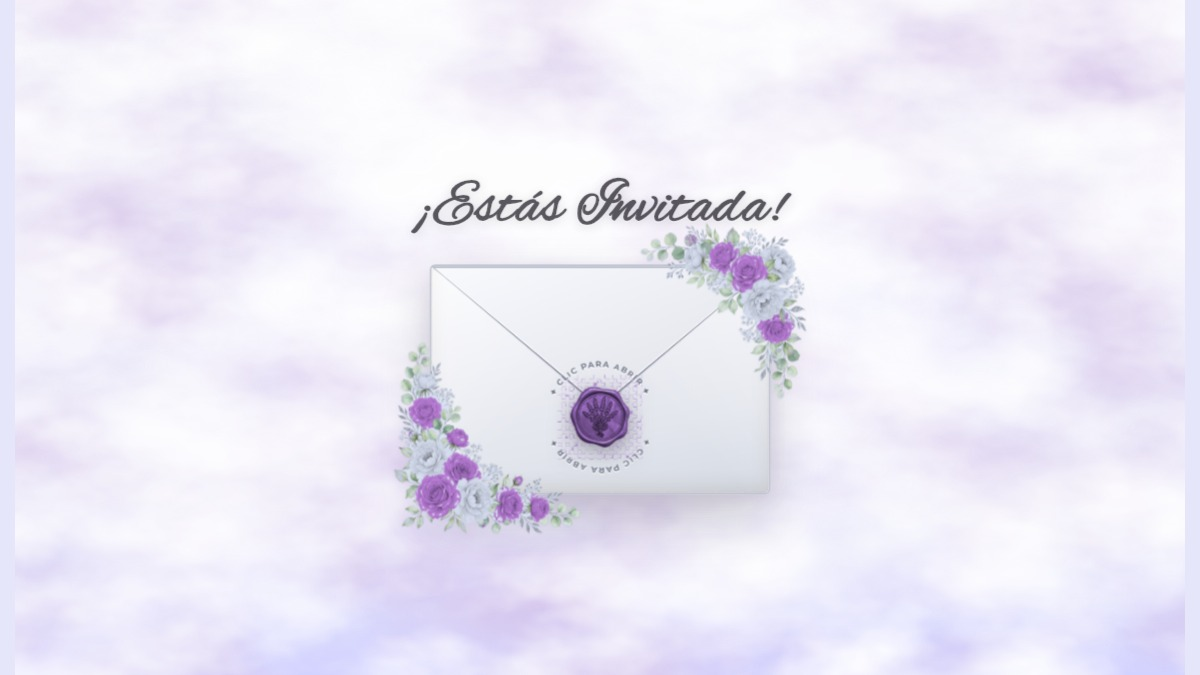
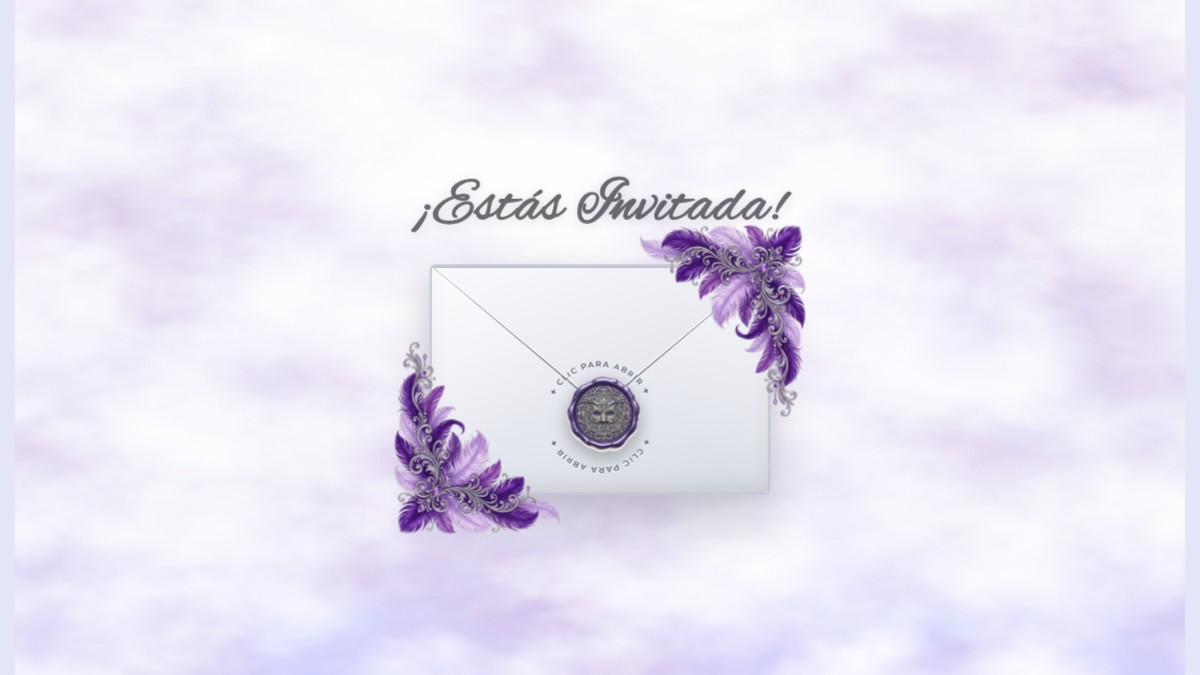
chore: update og preview image and bump cache version to v8

Changed region(s): [[0.3392, 0.2489, 0.6783, 0.6222], [0.3083, 0.4978, 0.4933, 0.8089], [0.4625, 0.56, 0.555, 0.6844]]

diff --git a/michellemartinez/index.html b/michellemartinez/index.html
@@ -17,8 +17,8 @@
   <meta property="og:title" content="Michelle Martinez — Mis XV Años" />
   <meta property="og:description"
     content="Acompáñanos a celebrar los XV años de Michelle Martinez. Viernes, 13 de Noviembre de 2026 en Crystal Event Center, Tucson, Arizona." />
-  <meta property="og:image" content="https://disenosluna.com/michellemartinez/photos/og-preview.jpg?v=7" />
-  <meta property="og:image:secure_url" content="https://disenosluna.com/michellemartinez/photos/og-preview.jpg?v=7" />
+  <meta property="og:image" content="https://disenosluna.com/michellemartinez/photos/og-preview.jpg?v=8" />
+  <meta property="og:image:secure_url" content="https://disenosluna.com/michellemartinez/photos/og-preview.jpg?v=8" />
   <meta property="og:image:type" content="image/jpeg" />
   <meta property="og:image:width" content="1200" />
   <meta property="og:image:height" content="675" />
@@ -30,7 +30,7 @@
   <meta name="twitter:title" content="Michelle Martinez — Mis XV Años" />
   <meta name="twitter:description"
     content="Acompáñanos a celebrar los XV años de Michelle Martinez. Viernes, 13 de Noviembre de 2026 en Crystal Event Center, Tucson, Arizona." />
-  <meta name="twitter:image" content="https://disenosluna.com/michellemartinez/photos/og-preview.jpg?v=7" />
+  <meta name="twitter:image" content="https://disenosluna.com/michellemartinez/photos/og-preview.jpg?v=8" />
 
   <!-- Favicon / Apple Touch Icon -->
   <link rel="icon" type="image/svg+xml" href="favicon.svg" />
